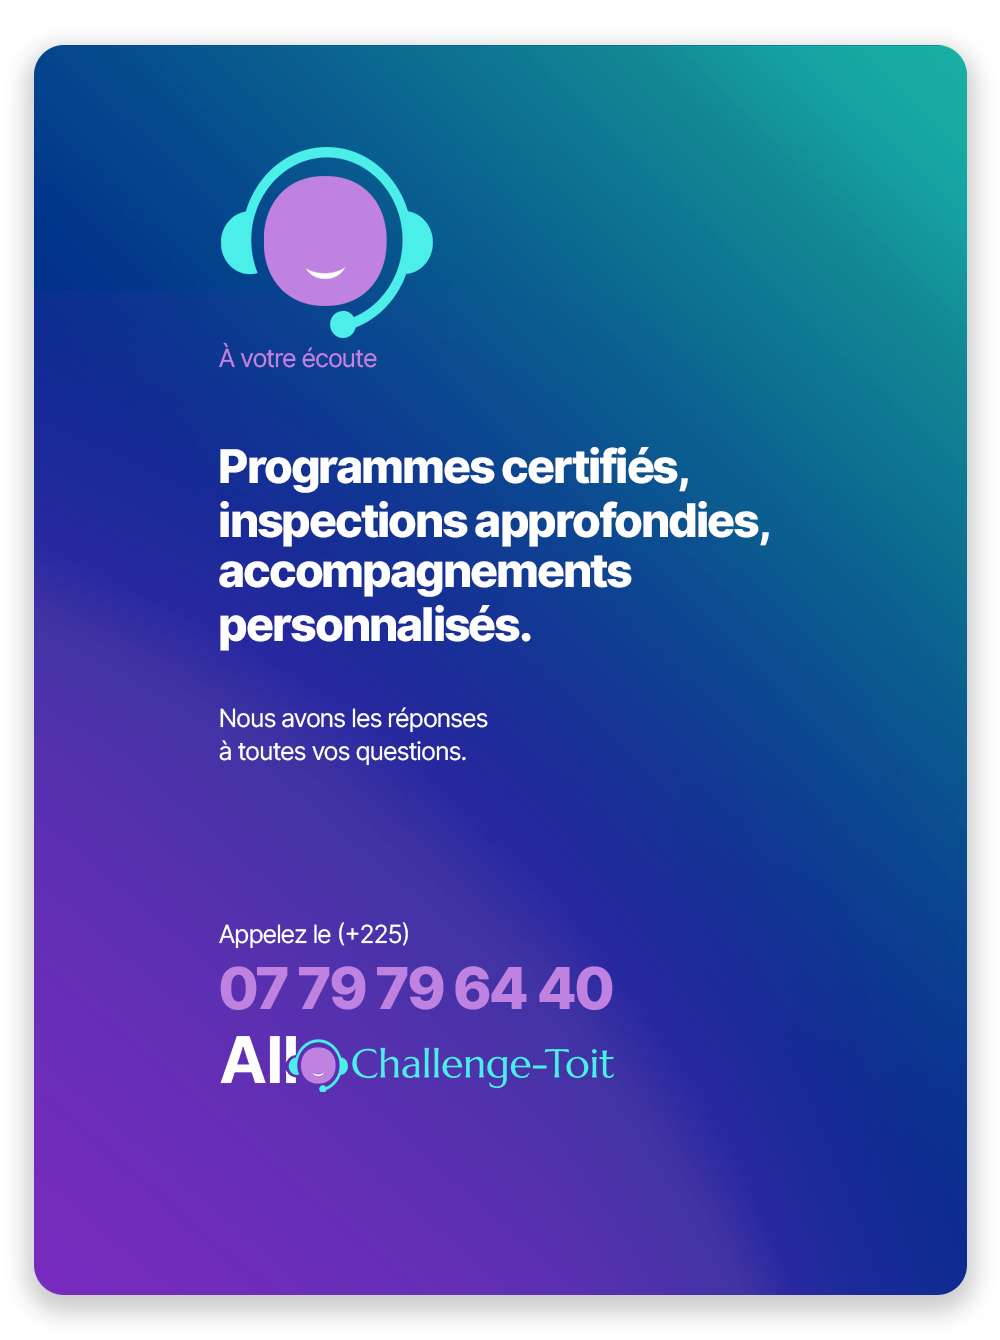
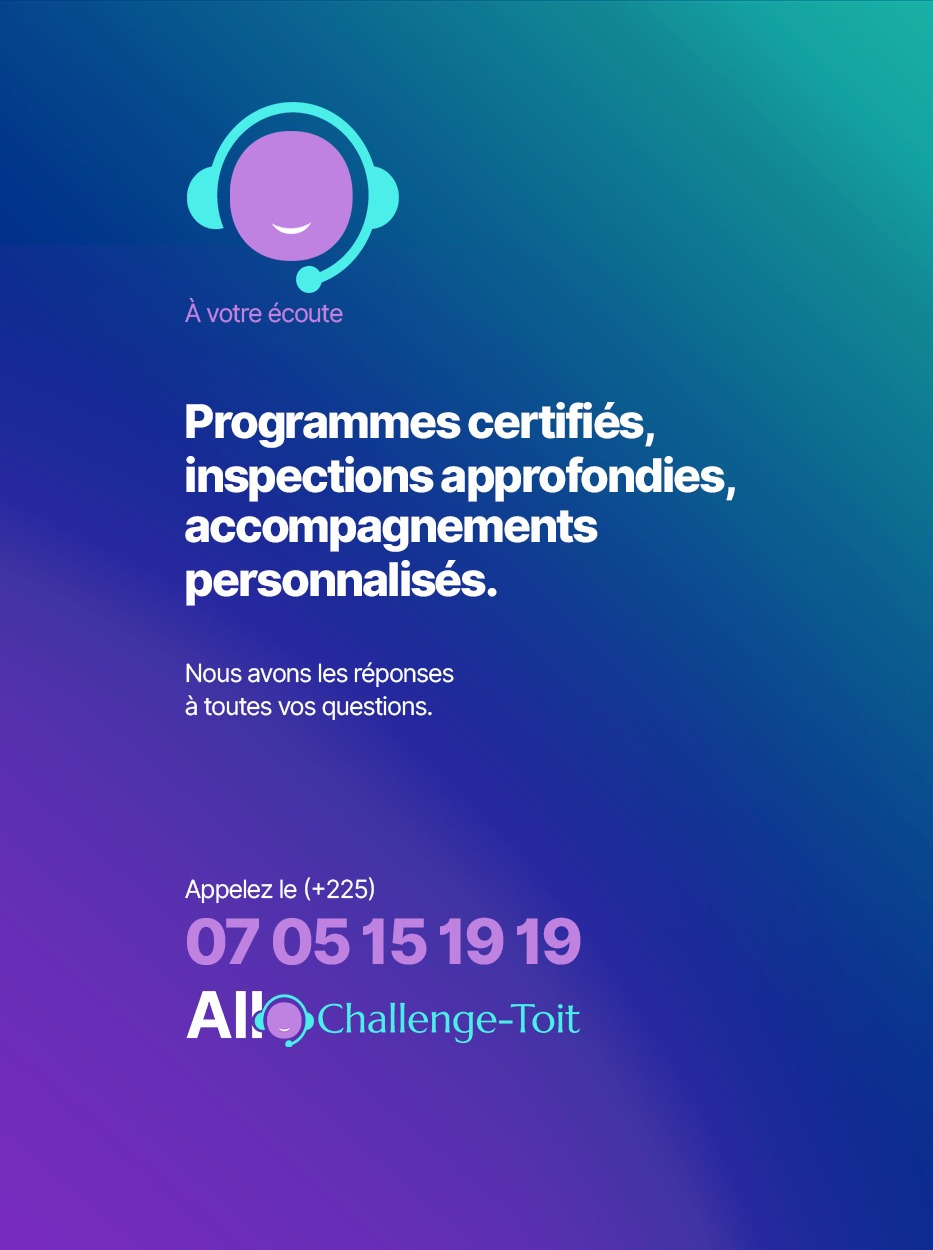
update

diff --git a/resources/views/frontend/index2.blade.php b/resources/views/frontend/index2.blade.php
@@ -3174,26 +3174,8 @@
                     </div>
                 </div>
                 <div id="nyssa_socials_widget-2" class="widget nyssa_socials_widget">
-                    <h4 class='widget_title_span'><a href="#enregistre-acquereurs">Inscrivez-vous vite !</a></h4>
-                    <hr>
                     <div class="social-icons-fa align-center">
-                        <ul>
-                            <li>
-                                <a href="#" target="_blank" class="social-network twitter" title="Twitter">
-                                    <i class="fab fa-twitter"></i>
-                                </a>
-                            </li>
-                            <li>
-                                <a href="#" target="_blank" class="social-network instagram" title="Instagram">
-                                    <i class="fab fa-instagram"></i>
-                                </a>
-                            </li>
-                            <li>
-                                <a href="#" target="_blank" class="social-network youtube" title="Youtube">
-                                    <i class="fab fa-youtube"></i>
-                                </a>
-                            </li>
-                        </ul>
+                        <img alt="Logo challenge" style="height: 46px;/*! background-color: white; */border-radius: 25px;/*! padding: ; */" src="/img/import/challenge-fond-noir.png">
                     </div>
                 </div>
             </div>
@@ -3815,7 +3797,6 @@
                                             <div class="wpb_text_column wpb_content_element ">
                                                 <div class="wpb_wrapper">
                                                     <p style="text-align: left;">Bénéficiez d’options d'acquisitions certifiées conçues pour vous, profitez des prêts adaptés, des plans de financement flexibles sur 5 ans ou des programmes spéciaux.</p>
-                                                    <br>
                                                     <p style="text-align: left;">Nous avons forcément la solution qui vous correspond en tout point.</p>
 
                                                 </div>
@@ -5326,8 +5307,8 @@
                                                             <div class="wpb_wrapper">
                                                                 <p style="text-align: center;">
                                                                     <a href="mailto:info@challenge-toit.com">info@challenge-toit.com</a>
-                                                                    <br />
-                                                                    <a href="mailto:office@challenge-toit.com">office@challenge-toit.com</a>
+                                                                    <br /><br />&nbsp;
+                                                                    <a href="mailto:reclamations@challenge-toit.com">reclamations@challenge-toit.com</a>
                                                                 </p>
                                                             </div>
                                                         </div>
@@ -5355,7 +5336,7 @@
                                                         <div class="wpb_text_column wpb_content_element ">
                                                             <div class="wpb_wrapper">
                                                                 <p style="text-align: center;">
-                                                                    (+225) 2722245432<br />&nbsp;
+                                                                    (+225) 2722245432<br />&nbsp;<br />&nbsp;
                                                                     (+225) 0705055059
                                                                 </p>
                                                             </div>
@@ -5380,23 +5361,13 @@
                     <div class="social-icons-fa align-center">
                         <ul>
                             <li>
-                                <a href="#" target="_blank" class="instagram" title="Instagram">
-                                    <i class="fab fa-instagram"></i>
-                                </a>
-                            </li>
-                            <li>
-                                <a href="#" target="_blank" class="twitter" title="Twitter">
-                                    <i class="fab fa-linkedin"></i>
-                                </a>
-                            </li>
-                            <li>
-                                <a href="#" target="_blank" class="youtube" title="Youtube">
-                                    <i class="fab fa-youtube"></i>
-                                </a>
-                            </li>
-                            <li>
-                                <a href="#" target="_blank" class="twitch" title="Twitch">
+                                <a href="https://web.facebook.com/profile.php?id=61554186385461" target="_blank" class="twitch" title="Twitch">
                                     <i class="fab fa-facebook"></i>
+                                </a>
+                            </li>
+                            <li>
+                                <a href="https://www.tiktok.com/@challenge_toit?is_from_webapp=1&sender_device=pc" target="_blank" class="twitch" title="Twitch">
+                                    <i class="fab fa-tiktok"></i>
                                 </a>
                             </li>
                         </ul>
@@ -5417,7 +5388,7 @@
                 <iframe id="chat-items" src="https://cchat.heyz.ci/" frameborder="0" width="100%" height="100%"></iframe>
             </div>
             <div class="chatbox__button">
-                <button onclick="window.open('https://web.whatsapp.com/send?phone=+2250705055059&text=Bonjour HEYZ, J\'aimerais savoir:', '_blank')" style="width: 72px; height: 72px; padding-bottom: 4px;/*! margin-right: 29px; */" spellcheck="false"><img style="width: 72px; height: 72px;margin: -9px;" src="/chat/images/icons/whatsapp.svg"></button>
+                <button onclick="window.open('https://web.whatsapp.com/send?phone=+2250705151919&text=Bonjour HEYZ, J\'aimerais savoir:', '_blank')" style="width: 72px; height: 72px; padding-bottom: 4px;/*! margin-right: 29px; */" spellcheck="false"><img style="width: 72px; height: 72px;margin: -9px;" src="/chat/images/icons/whatsapp.svg"></button>
             </div>
         </div>
     </div>

diff --git a/resources/views/frontend/contact.blade.php b/resources/views/frontend/contact.blade.php
@@ -2980,15 +2980,8 @@
                     </div>
                 </div>
                 <div id="nyssa_socials_widget-2" class="widget nyssa_socials_widget">
-                    <h4 class="widget_title_span">Inscrivez-vous vite !</h4>
-                    <hr>
                     <div class="social-icons-fa align-center">
-                        <ul>
-                            <li><a href="#" target="_blank" class="social-network twitter" title="Twitter"><i class="fab fa-linkedin"></i></a></li>
-                            <li><a href="#" target="_blank" class="social-network instagram" title="Instagram"><i class="fab fa-instagram"></i></a></li>
-                            <li><a href="#" target="_blank" class="social-network youtube" title="Youtube"><i class="fab fa-youtube"></i></a></li>
-                            <li><a href="#" target="_blank" class="social-network twitch" title="Twitch"><i class="fab fa-facebook"></i></a></li>
-                        </ul>
+                        <img alt="Logo challenge" style="height: 46px;/*! background-color: white; */border-radius: 25px;/*! padding: ; */" src="/img/import/challenge-fond-noir.png">
                     </div>
                 </div>
             </div>
@@ -3299,7 +3292,7 @@
                                                         <p role="status" aria-live="polite" aria-atomic="true"></p>
                                                         <ul></ul>
                                                     </div>
-                                                    <form action="{{ route('font.contacts.store') }}" method="post" class="wpcf7-form init" aria-label="Contact form" novalidate="novalidate" data-status="init">
+                                                    <form action="/data/contact" method="post" class="wpcf7-form init" aria-label="Contact form" novalidate="novalidate" data-status="init">
                                                         @csrf
                                                         <!-- @method("PUT") -->
                                                         <div class="nyssa-multiple-fields">
@@ -4105,8 +4098,8 @@
                                                             <div class="wpb_wrapper">
                                                                 <p style="text-align: center;">
                                                                     <a href="mailto:info@challenge-toit.com">info@challenge-toit.com</a>
-                                                                    <br />
-                                                                    <a href="mailto:office@challenge-toit.com">office@challenge-toit.com</a>
+                                                                    <br /><br />&nbsp;
+                                                                    <a href="mailto:reclamations@challenge-toit.com">reclamations@challenge-toit.com</a>
                                                                 </p>
                                                             </div>
                                                         </div>
@@ -4134,7 +4127,7 @@
                                                         <div class="wpb_text_column wpb_content_element ">
                                                             <div class="wpb_wrapper">
                                                                 <p style="text-align: center;">
-                                                                    (+225) 2722245432<br />&nbsp;
+                                                                    (+225) 2722245432<br />&nbsp;<br />&nbsp;
                                                                     (+225) 0705055059
                                                                 </p>
                                                             </div>
@@ -4159,23 +4152,13 @@
                     <div class="social-icons-fa align-center">
                         <ul>
                             <li>
-                                <a href="#" target="_blank" class="instagram" title="Instagram">
-                                    <i class="fab fa-instagram"></i>
-                                </a>
-                            </li>
-                            <li>
-                                <a href="#" target="_blank" class="twitter" title="Twitter">
-                                    <i class="fab fa-linkedin"></i>
-                                </a>
-                            </li>
-                            <li>
-                                <a href="#" target="_blank" class="youtube" title="Youtube">
-                                    <i class="fab fa-youtube"></i>
-                                </a>
-                            </li>
-                            <li>
-                                <a href="#" target="_blank" class="twitch" title="Twitch">
+                                <a href="https://web.facebook.com/profile.php?id=61554186385461" target="_blank" class="twitch" title="Twitch">
                                     <i class="fab fa-facebook"></i>
+                                </a>
+                            </li>
+                            <li>
+                                <a href="https://www.tiktok.com/@challenge_toit?is_from_webapp=1&sender_device=pc" target="_blank" class="twitch" title="Twitch">
+                                    <i class="fab fa-tiktok"></i>
                                 </a>
                             </li>
                         </ul>

diff --git a/resources/views/frontend/about.blade.php b/resources/views/frontend/about.blade.php
@@ -3112,36 +3112,8 @@
                     </div>
                 </div>
                 <div id="nyssa_socials_widget-2" class="widget nyssa_socials_widget">
-                    <h4 class='widget_title_span'>Inscrivez-vous vite !</h4>
-                    <hr>
                     <div class="social-icons-fa align-center">
-                        <ul>
-                            <li>
-                                <a href="#" target="_blank" class="social-network twitter" title="Twitter">
-                                    <i class="fab fa-twitter"></i>
-                                </a>
-                            </li>
-                            <li>
-                                <a href="#" target="_blank" class="social-network instagram" title="Instagram">
-                                    <i class="fab fa-instagram"></i>
-                                </a>
-                            </li>
-                            <li>
-                                <a href="#" target="_blank" class="social-network youtube" title="Youtube">
-                                    <i class="fab fa-youtube"></i>
-                                </a>
-                            </li>
-                            <li>
-                                <a href="#" target="_blank" class="social-network twitch" title="Twitch">
-                                    <i class="fab fa-twitch"></i>
-                                </a>
-                            </li>
-                            <li>
-                                <a href="#" target="_blank" class="social-network weixin" title="Weixin">
-                                    <i class="fab fa-weixin"></i>
-                                </a>
-                            </li>
-                        </ul>
+                    <img alt="Logo challenge" style="height: 46px;/*! background-color: white; */border-radius: 25px;/*! padding: ; */" src="/img/import/challenge-fond-noir.png">
                     </div>
                 </div>
             </div>
@@ -4114,8 +4086,8 @@
                                                             <div class="wpb_wrapper">
                                                                 <p style="text-align: center;">
                                                                     <a href="mailto:info@challenge-toit.com">info@challenge-toit.com</a>
-                                                                    <br />
-                                                                    <a href="mailto:office@challenge-toit.com">office@challenge-toit.com</a>
+                                                                    <br /><br />&nbsp;
+                                                                    <a href="mailto:reclamations@challenge-toit.com">reclamations@challenge-toit.com</a>
                                                                 </p>
                                                             </div>
                                                         </div>
@@ -4143,7 +4115,7 @@
                                                         <div class="wpb_text_column wpb_content_element ">
                                                             <div class="wpb_wrapper">
                                                                 <p style="text-align: center;">
-                                                                    (+225) 2722245432<br />&nbsp;
+                                                                    (+225) 2722245432<br />&nbsp;<br />&nbsp;
                                                                     (+225) 0705055059
                                                                 </p>
                                                             </div>
@@ -4168,23 +4140,13 @@
                     <div class="social-icons-fa align-center">
                         <ul>
                             <li>
-                                <a href="#" target="_blank" class="instagram" title="Instagram">
-                                    <i class="fab fa-instagram"></i>
-                                </a>
-                            </li>
-                            <li>
-                                <a href="#" target="_blank" class="twitter" title="Twitter">
-                                    <i class="fab fa-linkedin"></i>
-                                </a>
-                            </li>
-                            <li>
-                                <a href="#" target="_blank" class="youtube" title="Youtube">
-                                    <i class="fab fa-youtube"></i>
-                                </a>
-                            </li>
-                            <li>
-                                <a href="#" target="_blank" class="twitch" title="Twitch">
+                                <a href="https://web.facebook.com/profile.php?id=61554186385461" target="_blank" class="twitch" title="Twitch">
                                     <i class="fab fa-facebook"></i>
+                                </a>
+                            </li>
+                            <li>
+                                <a href="https://www.tiktok.com/@challenge_toit?is_from_webapp=1&sender_device=pc" target="_blank" class="twitch" title="Twitch">
+                                    <i class="fab fa-tiktok"></i>
                                 </a>
                             </li>
                         </ul>

diff --git a/routes/web.php b/routes/web.php
@@ -133,6 +133,18 @@ Route::post("/data/achetemaintenant", function(){
     return view("frontend.op-success");
 });
 
+Route::post("/data/contact", function(){
+    $datac = json_encode(request()->all());
+    $typec = "App\Models\Contact::class";
+    TempData::create(
+        [
+            "datas"=>"$datac",
+            "type"=>"$typec",
+        ]
+        );
+    return view("frontend.op-success");
+});
+
 Route::post("/acquereurs/font/store", [AcquereurController::class, 'store2'])->name("font.acquereurs.store");
 Route::post("/challengerpros/font/store", [ChallengerproController::class, 'store2'])->name("font.challengerpros.store");
 Route::post("/parraines/font/store", [ParraineController::class, 'store2'])->name("font.parraines.store");
